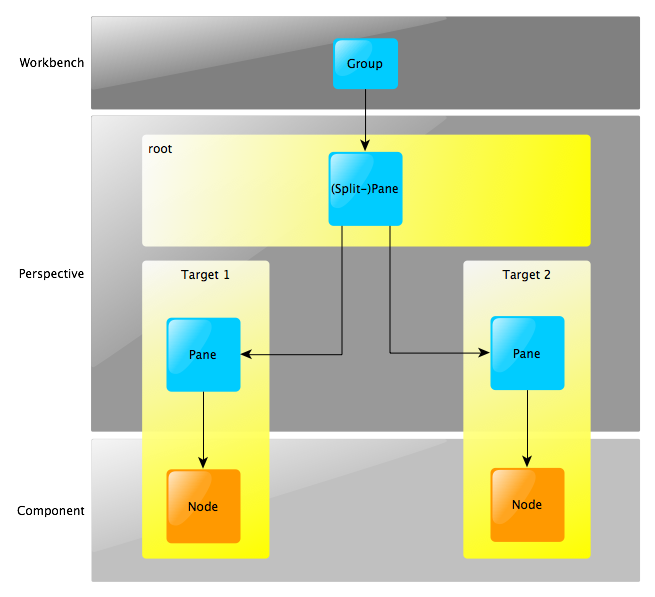
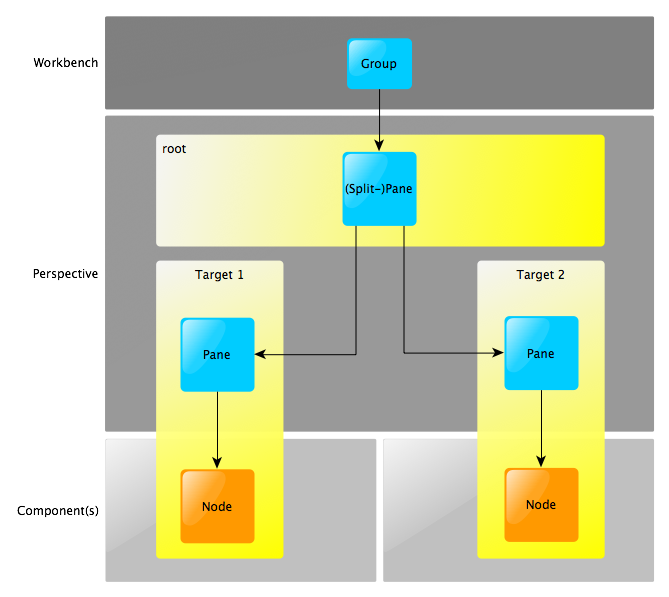
update website

diff --git a/index.html b/index.html
@@ -3,26 +3,17 @@ layout: default
 title: JacpFX project Site
 ---
   <div class="jumbotron">
-            <h1 class="h1">UI Application Framework</h1>
-            <p class="hidden-xs">It is based on JavaFX, supporting developers to structure an application with loosely coupled, reusable components. It frees you from the pitfalls of traditional multi-threaded programming helping you to separate the task execution from UI changes in you client application.</p>
+            <h1 class="h1">An UI application framework based on JavaFX</h1>
+            <p class="hidden-xs">Event bus, message passing and async execution are concepts, getting more and more popular for server side applications. JacpFX brings this approach to the client, combining JavaFX with an actor-like component model. It is an UI application
+                    framework based on JavaFX, supporting developers to structure an application with loosely coupled, reusable components. It frees you from the pitfalls of traditional multi-threaded programming, helping you to separate the task execution
+                    from UI changes in you client application.</p>
             <p>
                 <a class="btn btn-lg btn-primary" href="documentation_main.html" role="button">Documentation »</a>
             </p>
         </div>
 
 
-        <div class="row">
-            <div class="col-md-12 col-lg-12 col-sm-12 col-xs-12">
-                <h2>An UI application framework based on JavaFX, supporting developers to structure an application with loosely coupled, reusable components.</h2> 
-            </div>
-            <div class="col-md-12 col-lg-12 hidden-xs hidden-sm visible-lg visible-md">
-                <p>Event bus, message passing and async execution are concepts, getting more and more popular for server side applications. JacpFX brings this approach to the client, combining JavaFX with an actor-like component model. It is an UI application
-                    framework based on JavaFX, supporting developers to structure an application with loosely coupled, reusable components. It frees you from the pitfalls of traditional multi-threaded programming, helping you to separate the task execution
-                    from UI changes in you client application.
-                    <br>
-                </p>
-            </div>
-        </div>
+    
           </div>
       
         <!-- Symbols -->

diff --git a/_includes/main-documentation.md b/_includes/main-documentation.md
@@ -15,7 +15,7 @@ JacpFX has, like any other UI application framework, a hierarchic component stru
 
 <br/>
 <div align="center">
-![JacpFX Component structure](/img/JACP_Overview_v2_1.png)
+![JacpFX Component structure](/img/JACP_Overview_v2.png)
 </div>
 <br/>
 
@@ -207,7 +207,7 @@ To declare references to perspectives, simply add the perspective ID's in the "p
 
 A perspective defines the basic UI structure for your view and provides a container for components. While a perspective is more like a template with placeholders, components are the detail views of your application.
 <br/>
-A typical UI application has a root node and a large tree of components which represents your UI structure. The leaf nodes of such a component-tree are your user-defined nodes containing the Buttons, TextFields and so on.  In a typical business application you can create a (Split-)Pane in your perspective, which represents the the root node of your current view, place a Pane on the left and on the right and register those Panes as “Targets” for your components. Child components of your perspective can now registers themselves to be rendered in one of those targets.
+A typical UI application has a root node and a large tree of components which represents your UI structure. The leaf nodes of such a component-tree are your user-defined controles like Buttons, TextFields and so on.  In a typical business application you can create a (Split-)Pane in your perspective, which represents the the root node of your current view, place a Pane on the left and on the right and register those Panes as “targets” for your components. Child components of your perspective can now registers themselves to be rendered in one of those targets.
 <br/>
 <div align="center">
 ![perspective node tree](/img/JACP_NodeTree_View.png)
@@ -216,6 +216,15 @@ A typical UI application has a root node and a large tree of components which re
 
 
 ### The perspective lifecycle ###
+A perspective defines five lifecycle hooks:
+
+- The <b>"handlePerspective"</b> method must be overwritten and will be executed on each message the perspective is receiving.
+- <b>@PostConstruct:</b> A method annotated with @PostConstruct will be executed when a perspective will be activated, usually this happens on start 
+- <b>@PreDestroy:</b> A method annotated with @PreDestroy will be executed when a perspective will be destroyed
+- <b>@OnShow:</b> A method annotated with @OnShow will be executed when an active perspective gets the focus. Only one perspective is visible in a workbench at the same time, when a perspective gets a message it will be focused and placed in the foreground.
+	- in this phase you can e.g. turn on toolbar buttons or start timer tasks
+- <b>@OnHide:</b> A method annotated with @OnHide will be executed when an active perspective looses the focus and moved to the background.
+
 
 <br/>
 <div align="center">
@@ -238,20 +247,14 @@ public class PerspectiveOne implements FXPerspective {
 
 
     @Override
-    public void handlePerspective(final Message<Event, Object> action,
-                                  final PerspectiveLayout perspectiveLayout) {
-        
-    }
-
+    public void handlePerspective(final Message<Event, Object> message,
+                                  final PerspectiveLayout perspectiveLayout) { ... }
 
     @OnShow
-    public void onShow(final FXComponentLayout layout) {
-
-    }
+    public void onShow(final FXComponentLayout layout) { ... }
+    
     @OnHide
-    public void onHide(final FXComponentLayout layout) {
-
-    }
+    public void onHide(final FXComponentLayout layout) { ... }
 
     @PostConstruct
     public void onStartPerspective(final PerspectiveLayout perspectiveLayout, final FXComponentLayout layout,
@@ -267,10 +270,7 @@ public class PerspectiveOne implements FXPerspective {
         mainPane.setCenter(mainLayout);
 
         HBox contentTop = new HBox();
-        HBox.setHgrow(contentTop, Priority.ALWAYS);
-
         HBox contentBottom = new HBox();
-        HBox.setHgrow(contentBottom, Priority.ALWAYS);
 
         mainLayout.getItems().addAll(contentTop, contentBottom);
 		<b>
@@ -281,9 +281,7 @@ public class PerspectiveOne implements FXPerspective {
     }
 
     @PreDestroy
-    public void onTearDownPerspective(final FXComponentLayout arg0) {
-       ...
-    }
+    public void onTearDownPerspective(final FXComponentLayout arg0) { ... }
     
 </pre>
 #### Declarative Perspectives ####
@@ -301,42 +299,49 @@ public class PerspectiveTwo implements FXPerspective {
     @FXML
     private HBox contentBottom;
     @FXML
-    private VBox mainPane;
+    private BorderPane mainPane;
 
 
     @Resource
     public Context context;
 
     @Override
-    public void handlePerspective(final Message<Event, Object> action,
-                                  final PerspectiveLayout perspectiveLayout) {
+    public void handlePerspective(final Message<Event, Object> message,
+                                  final PerspectiveLayout perspectiveLayout) { ... }
 
-    }
-
-
- 	@OnShow
-    public void onShow(final FXComponentLayout layout) {
-
-    }
+    @OnShow
+    public void onShow(final FXComponentLayout layout) { ... }
+    
     @OnHide
-    public void onHide(final FXComponentLayout layout) {
-
-    }
+    public void onHide(final FXComponentLayout layout) { ... }
 
     @PostConstruct
     public void onStartPerspective(final FXComponentLayout layout,
-                                   final ResourceBundle resourceBundle) {
-       LayoutUtil.GridPaneUtil.setFullGrow(ALWAYS, mainPane);
-    }
+                                   final ResourceBundle resourceBundle) { ... }
 
     @PreDestroy
-    public void onTearDownPerspective(final FXComponentLayout arg0) {
-
-    }
+    public void onTearDownPerspective(final FXComponentLayout arg0) { ... }
 
 }
 
 </pre>
+
+####The FXML view:####
+
+```xml
+<BorderPane id="mainPane"
+            xmlns="http://javafx.com/javafx/8" xmlns:fx="http://javafx.com/fxml/1">
+    <center>
+        <SplitPane fx:id="mainLayout" dividerPositions="0.55" focusTraversable="true"
+                   orientation="VERTICAL" HBox.hgrow="ALWAYS">
+            <items>
+                <HBox fx:id="contentTop"/>
+                <HBox fx:id="contentBottom"/>
+            </items>
+        </SplitPane>
+    </center>
+</BorderPane>
+```
 ### Register targets ###
 
 <br/>

diff --git a/_includes/structComposition.md b/_includes/structComposition.md
@@ -72,10 +72,7 @@ public class ExampleJavaFXPerspective implements FXPerspective {
         mainPane.setCenter(mainLayout);
 
         HBox contentTop = new HBox();
-        HBox.setHgrow(contentTop, Priority.ALWAYS);
-        
         HBox contentBottom = new HBox();
-        HBox.setHgrow(contentBottom, Priority.ALWAYS);
         
         contentBottom.getChildren().add(new Button("my button"));
         mainLayout.getItems().addAll(contentTop,contentBottom);
